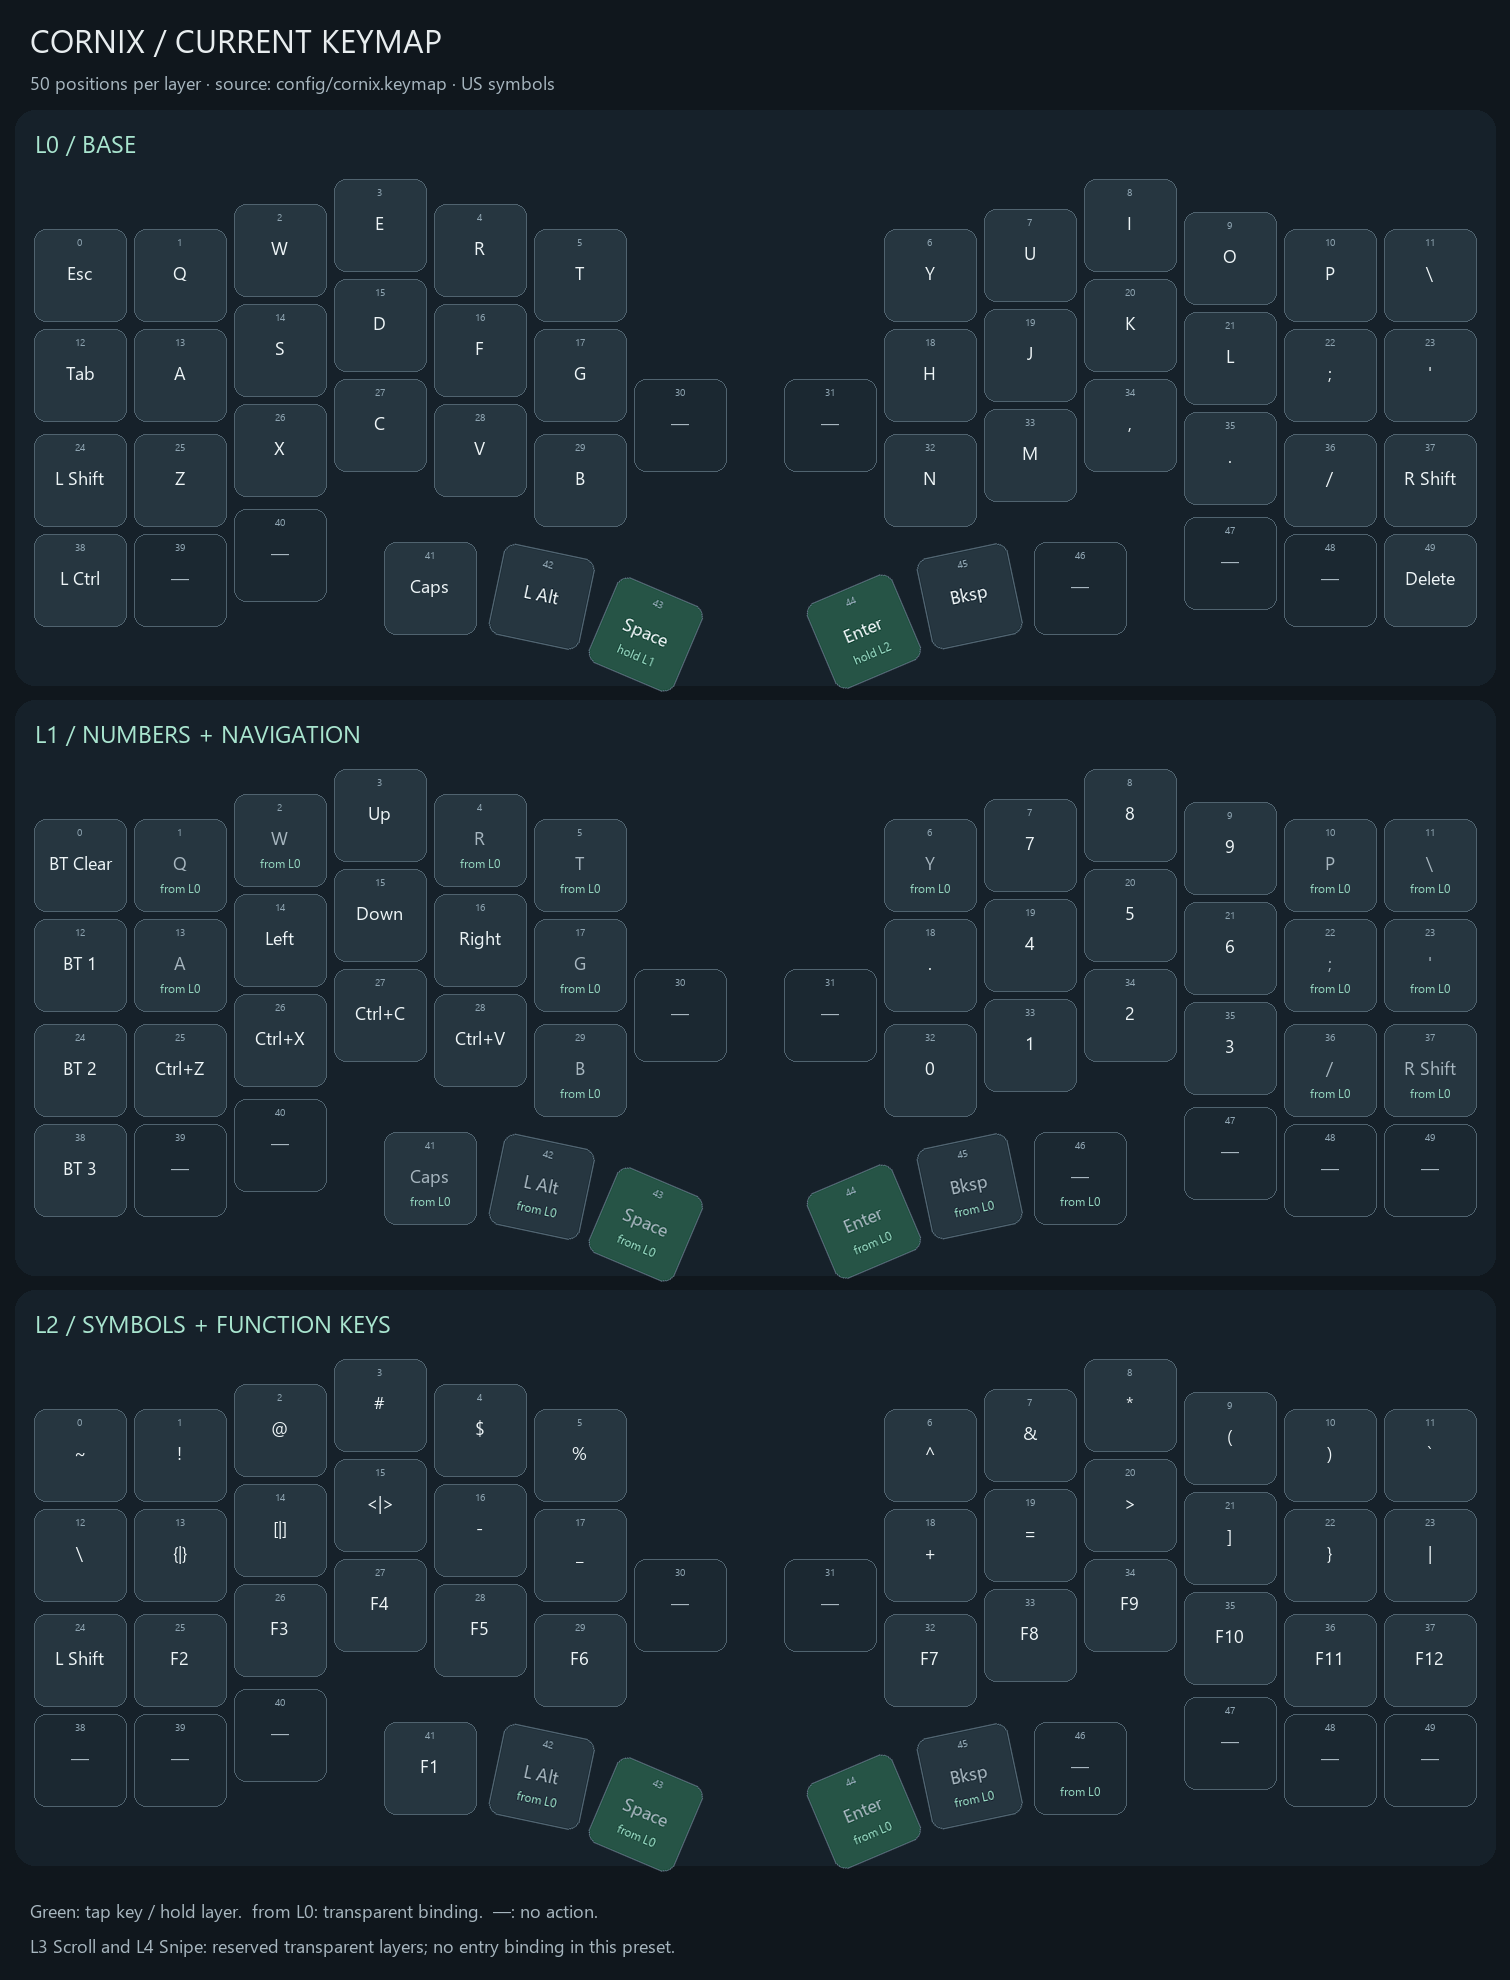
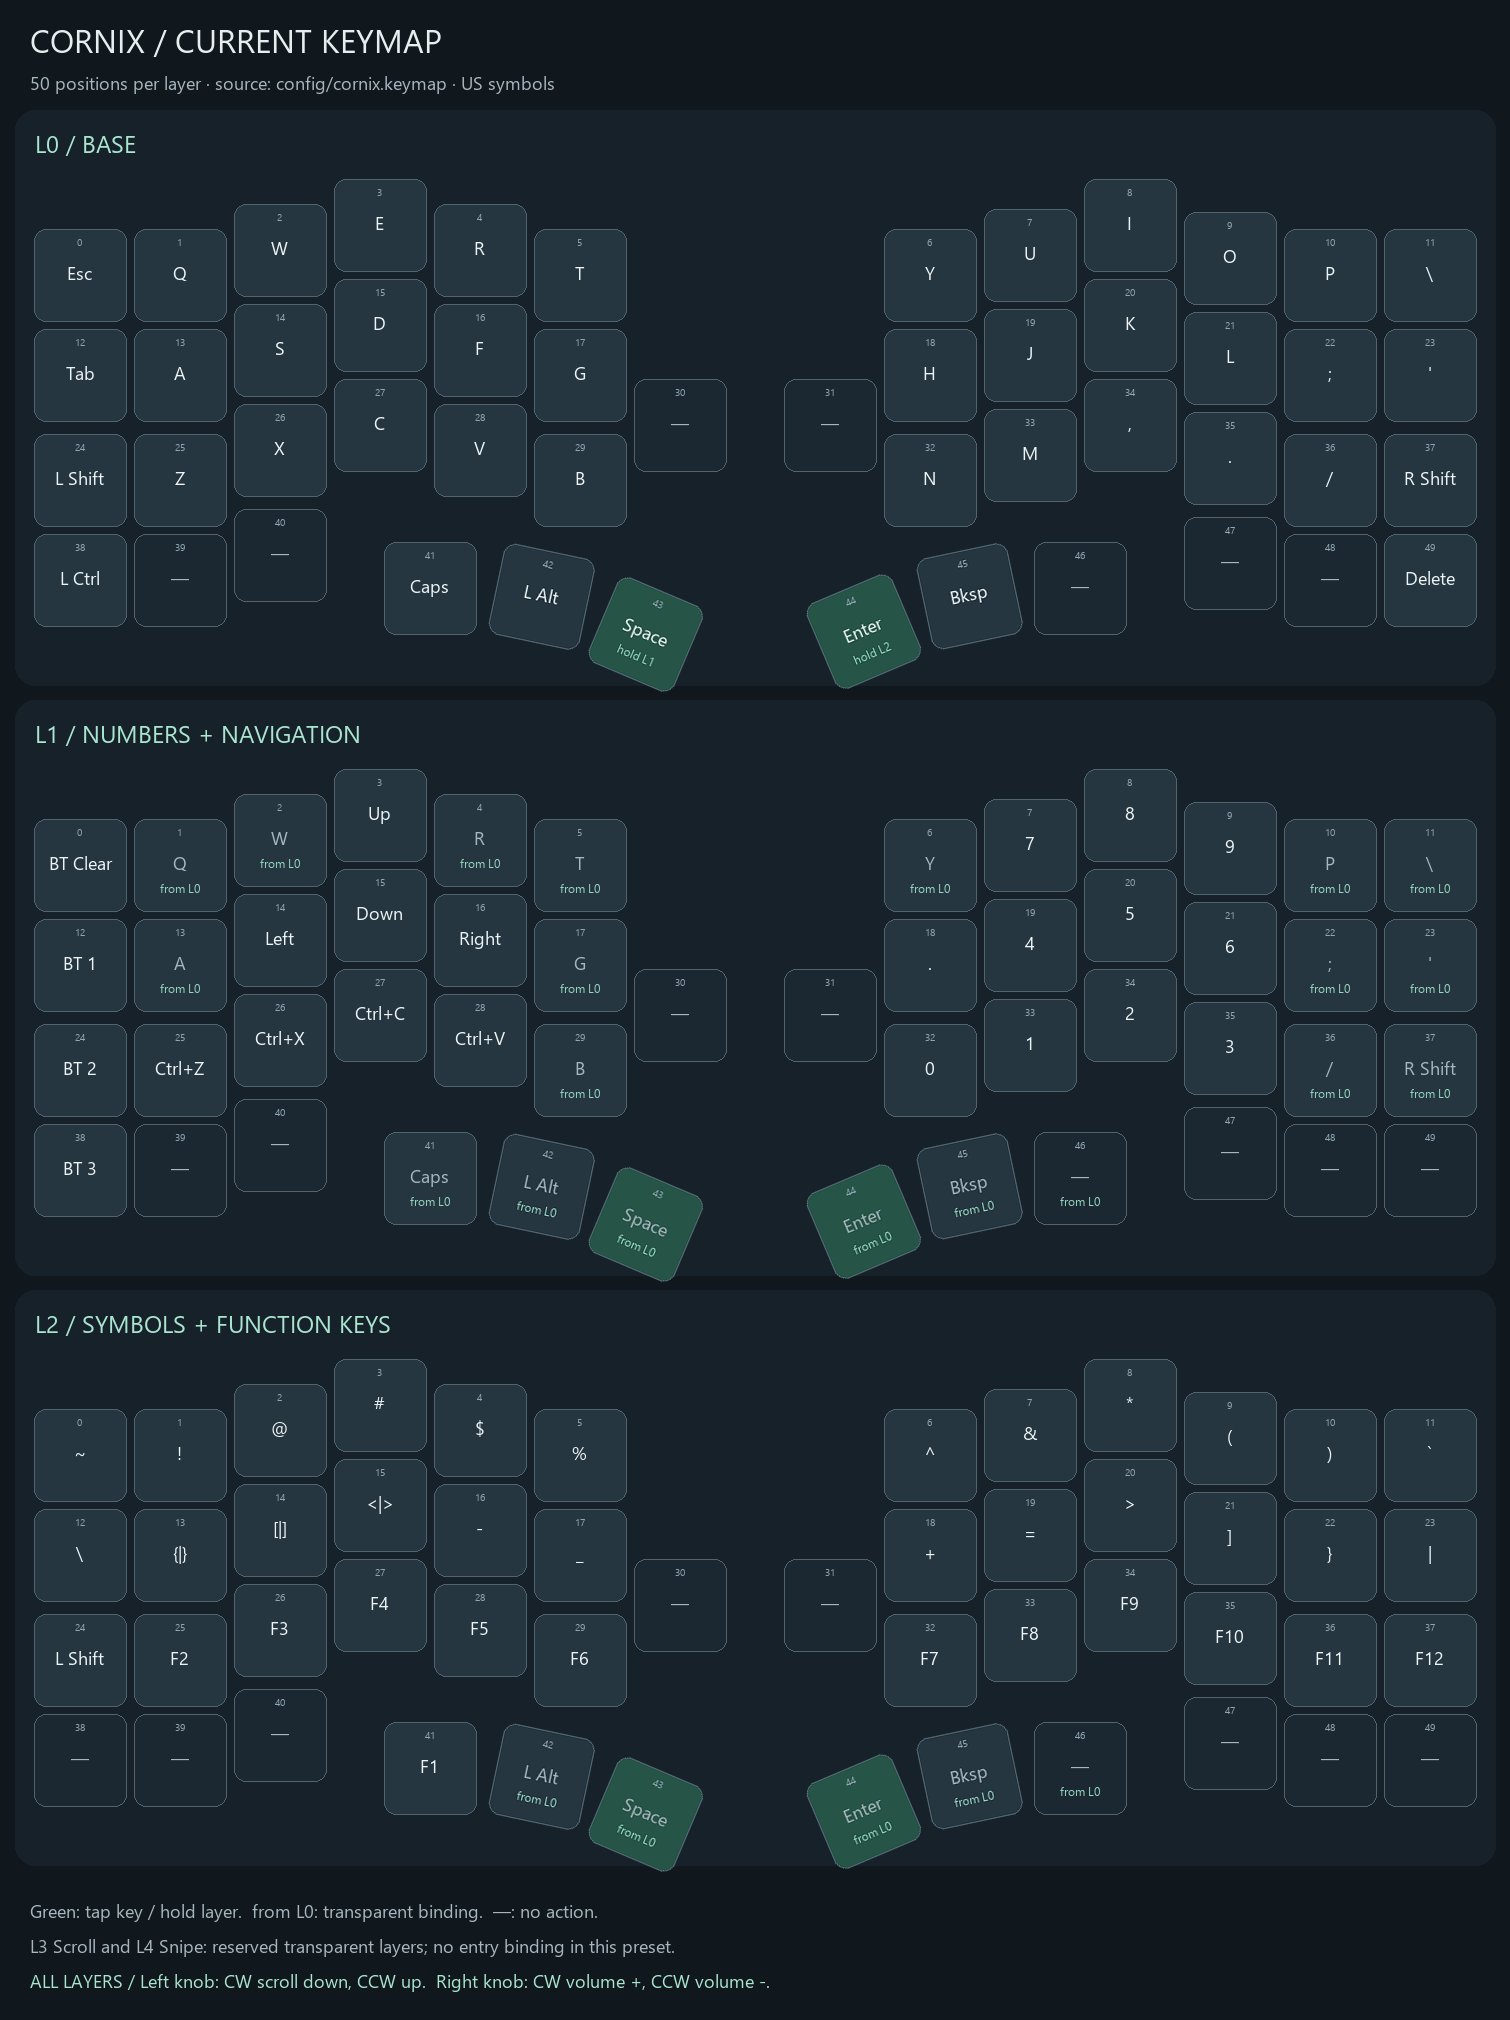
Map left encoder to scrolling and right encoder to volume on all layers

diff --git a/keymap-drawer/cornix.html b/keymap-drawer/cornix.html
@@ -8,7 +8,7 @@
 <nav class="bar" aria-label="选择键位层" id="tabs"></nav>
 <div class="panel"><label><input type="checkbox" id="reserved" checked>显示全部 50 个键位（含 8 个未绑定位置）</label><p id="hint"></p><div class="scroll"><svg id="board" viewBox="-15 -15 1480 540" role="group" aria-label="Cornix 键位图"></svg></div></div>
 <div class="panel" id="detail" aria-live="polite">点击图上的键位，再按笔记本或外接键盘上的键。</div>
-<div class="panel"><h3>保存与使用</h3><p>修改会自动暂存在当前浏览器。完成后务必点击「导出修改后的 HTML」，将下载的文件发给我或告诉我保存路径。普通刷新不会把修改写回原文件。</p><p>拖动交换当前层的两个绑定；透明键标注 ↧，预览按基础层回落，实际固件按激活层栈回落。符号按美式布局标注。旋钮绑定保持不变。</p></div>
+<div class="panel"><h3>保存与使用</h3><p>修改会自动暂存在当前浏览器。完成后务必点击「导出修改后的 HTML」，将下载的文件发给我或告诉我保存路径。普通刷新不会把修改写回原文件。</p><p>拖动交换当前层的两个绑定；透明键标注 ↧，预览按基础层回落，实际固件按激活层栈回落。符号按美式布局标注。所有层：左旋钮顺时针向下滚动、逆时针向上滚动；右旋钮顺时针增大音量、逆时针减小音量。此编辑器仅编辑按键，旋钮映射固定。</p></div>
 <footer>基于当前工作区 config/cornix.keymap。编号为 0–49 的固件索引。这里只编辑预设，不会操作键盘设备。长按判定 200 ms，快速轻点窗口 150 ms。</footer>
 <script>
 const DATA={"layers": [{"name": "base_layer", "keys": ["&kp ESC", "&kp Q", "&kp W", "&kp E", "&kp R", "&kp T", "&kp Y", "&kp U", "&kp I", "&kp O", "&kp P", "&kp BSLH", "&kp TAB", "&kp A", "&kp S", "&kp D", "&kp F", "&kp G", "&kp H", "&kp J", "&kp K", "&kp L", "&kp SEMI", "&kp SQT", "&kp LEFT_SHIFT", "&kp Z", "&kp X", "&kp C", "&kp V", "&kp B", "&none", "&none", "&kp N", "&kp M", "&kp COMMA", "&kp DOT", "&kp FSLH", "&kp RIGHT_SHIFT", "&kp LEFT_CONTROL", "&none", "&none", "&kp CAPSLOCK", "&kp LEFT_ALT", "&lt NUM_NAV SPACE", "&lt FN_SYMBOLS ENTER", "&kp BACKSPACE", "&none", "&none", "&none", "&kp DELETE"]}, {"name": "num_nav_layer", "keys": ["&bt BT_CLR", "&trans", "&trans", "&kp UP", "&trans", "&trans", "&trans", "&kp N7", "&kp N8", "&kp N9", "&trans", "&trans", "&bt BT_SEL 0", "&trans", "&kp LEFT", "&kp DOWN", "&kp RIGHT", "&trans", "&kp DOT", "&kp N4", "&kp N5", "&kp N6", "&trans", "&trans", "&bt BT_SEL 1", "&kp LC(Z)", "&kp LC(X)", "&kp LC(C)", "&kp LC(V)", "&trans", "&none", "&none", "&kp N0", "&kp N1", "&kp N2", "&kp N3", "&trans", "&trans", "&bt BT_SEL 2", "&none", "&none", "&trans", "&trans", "&trans", "&trans", "&trans", "&trans", "&none", "&none", "&none"]}, {"name": "fn_symbols_layer", "keys": ["&kp TILDE", "&kp EXCL", "&kp AT", "&kp HASH", "&kp DLLR", "&kp PRCNT", "&kp CARET", "&kp AMPS", "&kp ASTRK", "&kp LPAR", "&kp RPAR", "&kp GRAVE", "&kp BSLH", "&pair_braces", "&pair_brackets", "&pair_angles", "&kp MINUS", "&kp UNDER", "&kp PLUS", "&kp EQUAL", "&kp GT", "&kp RBKT", "&kp RBRC", "&kp PIPE", "&kp LEFT_SHIFT", "&kp F2", "&kp F3", "&kp F4", "&kp F5", "&kp F6", "&none", "&none", "&kp F7", "&kp F8", "&kp F9", "&kp F10", "&kp F11", "&kp F12", "&none", "&none", "&none", "&kp F1", "&trans", "&trans", "&trans", "&trans", "&trans", "&none", "&none", "&none"]}, {"name": "scroll_layer", "keys": ["&trans", "&trans", "&trans", "&trans", "&trans", "&trans", "&trans", "&trans", "&trans", "&trans", "&trans", "&trans", "&trans", "&trans", "&trans", "&trans", "&trans", "&trans", "&trans", "&trans", "&trans", "&trans", "&trans", "&trans", "&trans", "&trans", "&trans", "&trans", "&trans", "&trans", "&none", "&none", "&trans", "&trans", "&trans", "&trans", "&trans", "&trans", "&none", "&none", "&none", "&trans", "&trans", "&trans", "&trans", "&trans", "&trans", "&none", "&none", "&none"]}, {"name": "snipe_layer", "keys": ["&trans", "&trans", "&trans", "&trans", "&trans", "&trans", "&trans", "&trans", "&trans", "&trans", "&trans", "&trans", "&trans", "&trans", "&trans", "&trans", "&trans", "&trans", "&trans", "&trans", "&trans", "&trans", "&trans", "&trans", "&trans", "&trans", "&trans", "&trans", "&trans", "&trans", "&none", "&none", "&trans", "&trans", "&trans", "&trans", "&trans", "&trans", "&none", "&none", "&none", "&trans", "&trans", "&trans", "&trans", "&trans", "&trans", "&none", "&none", "&none"]}], "positions": [[1.0, 1.0, 0.0, 0.5, 0.0, 0.0, 0.0], [1.0, 1.0, 1.0, 0.5, 0.0, 0.0, 0.0], [1.0, 1.0, 2.0, 0.25, 0.0, 0.0, 0.0], [1.0, 1.0, 3.0, 0.0, 0.0, 0.0, 0.0], [1.0, 1.0, 4.0, 0.25, 0.0, 0.0, 0.0], [1.0, 1.0, 5.0, 0.5, 0.0, 0.0, 0.0], [1.0, 1.0, 8.5, 0.5, 0.0, 0.0, 0.0], [1.0, 1.0, 9.5, 0.3, 0.0, 0.0, 0.0], [1.0, 1.0, 10.5, 0.0, 0.0, 0.0, 0.0], [1.0, 1.0, 11.5, 0.33, 0.0, 0.0, 0.0], [1.0, 1.0, 12.5, 0.5, 0.0, 0.0, 0.0], [1.0, 1.0, 13.5, 0.5, 0.0, 0.0, 0.0], [1.0, 1.0, 0.0, 1.5, 0.0, 0.0, 0.0], [1.0, 1.0, 1.0, 1.5, 0.0, 0.0, 0.0], [1.0, 1.0, 2.0, 1.25, 0.0, 0.0, 0.0], [1.0, 1.0, 3.0, 1.0, 0.0, 0.0, 0.0], [1.0, 1.0, 4.0, 1.25, 0.0, 0.0, 0.0], [1.0, 1.0, 5.0, 1.5, 0.0, 0.0, 0.0], [1.0, 1.0, 8.5, 1.5, 0.0, 0.0, 0.0], [1.0, 1.0, 9.5, 1.3, 0.0, 0.0, 0.0], [1.0, 1.0, 10.5, 1.0, 0.0, 0.0, 0.0], [1.0, 1.0, 11.5, 1.33, 0.0, 0.0, 0.0], [1.0, 1.0, 12.5, 1.5, 0.0, 0.0, 0.0], [1.0, 1.0, 13.5, 1.5, 0.0, 0.0, 0.0], [1.0, 1.0, 0.0, 2.55, 0.0, 0.0, 0.0], [1.0, 1.0, 1.0, 2.55, 0.0, 0.0, 0.0], [1.0, 1.0, 2.0, 2.25, 0.0, 0.0, 0.0], [1.0, 1.0, 3.0, 2.0, 0.0, 0.0, 0.0], [1.0, 1.0, 4.0, 2.25, 0.0, 0.0, 0.0], [1.0, 1.0, 5.0, 2.55, 0.0, 0.0, 0.0], [1.0, 1.0, 6.0, 2.0, 0.0, 0.0, 0.0], [1.0, 1.0, 7.5, 2.0, 0.0, 0.0, 0.0], [1.0, 1.0, 8.5, 2.55, 0.0, 0.0, 0.0], [1.0, 1.0, 9.5, 2.3, 0.0, 0.0, 0.0], [1.0, 1.0, 10.5, 2.0, 0.0, 0.0, 0.0], [1.0, 1.0, 11.5, 2.33, 0.0, 0.0, 0.0], [1.0, 1.0, 12.5, 2.55, 0.0, 0.0, 0.0], [1.0, 1.0, 13.5, 2.55, 0.0, 0.0, 0.0], [1.0, 1.0, 0.0, 3.55, 0.0, 0.0, 0.0], [1.0, 1.0, 1.0, 3.55, 0.0, 0.0, 0.0], [1.0, 1.0, 2.0, 3.3, 0.0, 0.0, 0.0], [1.0, 1.0, 3.5, 3.63, 0.0, 0.0, 0.0], [1.0, 1.0, 4.5, 3.7, 11.93, 5.0, 4.75], [1.0, 1.0, 5.5, 3.65, 23.0, 5.0, 4.75], [1.0, 1.0, 7.64, 5.38, -23.0, 5.0, 4.75], [1.0, 1.0, 9.0, 3.75, -11.93, 9.25, 4.75], [1.0, 1.0, 10.0, 3.63, 0.0, 0.0, 0.0], [1.0, 1.0, 11.5, 3.38, 0.0, 0.0, 0.0], [1.0, 1.0, 12.5, 3.55, 0.0, 0.0, 0.0], [1.0, 1.0, 13.5, 3.55, 0.0, 0.0, 0.0]]};

diff --git a/scripts/keymap-editor-template.html b/scripts/keymap-editor-template.html
@@ -8,7 +8,7 @@
 <nav class="bar" aria-label="选择键位层" id="tabs"></nav>
 <div class="panel"><label><input type="checkbox" id="reserved" checked>显示全部 50 个键位（含 8 个未绑定位置）</label><p id="hint"></p><div class="scroll"><svg id="board" viewBox="-15 -15 1480 540" role="group" aria-label="Cornix 键位图"></svg></div></div>
 <div class="panel" id="detail" aria-live="polite">点击图上的键位，再按笔记本或外接键盘上的键。</div>
-<div class="panel"><h3>保存与使用</h3><p>修改会自动暂存在当前浏览器。完成后务必点击「导出修改后的 HTML」，将下载的文件发给我或告诉我保存路径。普通刷新不会把修改写回原文件。</p><p>拖动交换当前层的两个绑定；透明键标注 ↧，预览按基础层回落，实际固件按激活层栈回落。符号按美式布局标注。旋钮绑定保持不变。</p></div>
+<div class="panel"><h3>保存与使用</h3><p>修改会自动暂存在当前浏览器。完成后务必点击「导出修改后的 HTML」，将下载的文件发给我或告诉我保存路径。普通刷新不会把修改写回原文件。</p><p>拖动交换当前层的两个绑定；透明键标注 ↧，预览按基础层回落，实际固件按激活层栈回落。符号按美式布局标注。所有层：左旋钮顺时针向下滚动、逆时针向上滚动；右旋钮顺时针增大音量、逆时针减小音量。此编辑器仅编辑按键，旋钮映射固定。</p></div>
 <footer>基于当前工作区 config/cornix.keymap。编号为 0–49 的固件索引。这里只编辑预设，不会操作键盘设备。长按判定 200 ms，快速轻点窗口 150 ms。</footer>
 <script>
 const DATA=__DATA__;

diff --git a/scripts/generate-keymap-image.py b/scripts/generate-keymap-image.py
@@ -11,7 +11,7 @@ ROOT = Path(__file__).resolve().parents[1]
 data = runpy.run_path(str(ROOT / 'scripts/generate-keymap-html.py'))
 layers, positions = data['layers'], data['positions']
 labels = dict(TAB='Tab', ESC='Esc', BACKSPACE='Bksp', BSLH='\\', LEFT_SHIFT='L Shift', RIGHT_SHIFT='R Shift', LEFT_CONTROL='L Ctrl', LEFT_ALT='L Alt', CAPSLOCK='Caps', SPACE='Space', ENTER='Enter', DELETE='Delete', SEMI=';', SQT="'", COMMA=',', DOT='.', FSLH='/', UP='Up', DOWN='Down', LEFT='Left', RIGHT='Right', TILDE='~', EXCL='!', AT='@', HASH='#', DLLR='$', PRCNT='%', CARET='^', AMPS='&', ASTRK='*', LPAR='(', RPAR=')', GRAVE='`', LBRC='{', LBKT='[', LT='<', MINUS='-', UNDER='_', PLUS='+', EQUAL='=', GT='>', RBKT=']', RBRC='}', PIPE='|')
-WIDTH, HEIGHT = 1510, 1980
+WIDTH, HEIGHT = 1510, 2020
 svg = [f'<svg xmlns="http://www.w3.org/2000/svg" width="{WIDTH}" height="{HEIGHT}" viewBox="0 0 {WIDTH} {HEIGHT}" role="img" aria-label="Cornix current 50-position keymap, layers 0 to 2">', '<rect width="100%" height="100%" fill="#10171d"/>']
 canvas = Image.new('RGBA', (WIDTH, HEIGHT), '#10171d')
 font_path = next((p for p in [Path('C:/Windows/Fonts/segoeui.ttf'), Path('/usr/share/fonts/truetype/dejavu/DejaVuSans.ttf')] if p.exists()), None)
@@ -63,6 +63,7 @@ for index, title in enumerate(['L0 / BASE','L1 / NUMBERS + NAVIGATION','L2 / SYM
     svg.append('</g>')
 text(30,1910,'Green: tap key / hold layer.  from L0: transparent binding.  —: no action.',18,'#a7b6bf')
 text(30,1945,'L3 Scroll and L4 Snipe: reserved transparent layers; no entry binding in this preset.',18,'#a7b6bf')
+text(30,1980,'ALL LAYERS / Left knob: CW scroll down, CCW up.  Right knob: CW volume +, CCW volume -.',18,'#a9e5cf')
 svg.append('</svg>')
 out=ROOT/'keymap-drawer'
 (out/'cornix.svg').write_text('\n'.join(svg)+'\n',encoding='utf-8')

diff --git a/README.md b/README.md
@@ -34,6 +34,8 @@ on the three active layers, including unassigned keys:
 - **L1 Num/Nav:** arrows on E/S/D/F and Ctrl shortcuts on Z/X/C/V; BT Clear and BT 1–3 on the leftmost column. Right-hand digits use 789 / 456 / 0123, with decimal above zero.
 - **L2 Fn/Symbol:** two rows of symbols; left Shift and F2–F12 on the third row, with F1 on the base-layer Caps thumb position. Left-hand A/S/D type `{}` / `[]` / `<>` and move the caret left once (`|` in the diagram denotes the caret). Punctuation depends on the active input method; editor auto-pairing may affect the result.
 
+Encoders are identical on every layer: left clockwise scrolls down, counter-clockwise scrolls up; right clockwise increases volume, counter-clockwise decreases it. Scrolling uses mouse-wheel reports and follows host scroll settings. When first enabling pointing over BLE, refresh the host HID cache (usually by removing and re-pairing the device) if scrolling does not work.
+
 ![Cornix current keymap: Base, Num/Nav and Fn/Symbol, 50 positions per layer](keymap-drawer/cornix.svg)
 
 [Full-size PNG](keymap-drawer/cornix.png) · [Offline keymap editor](keymap-drawer/cornix.html)
